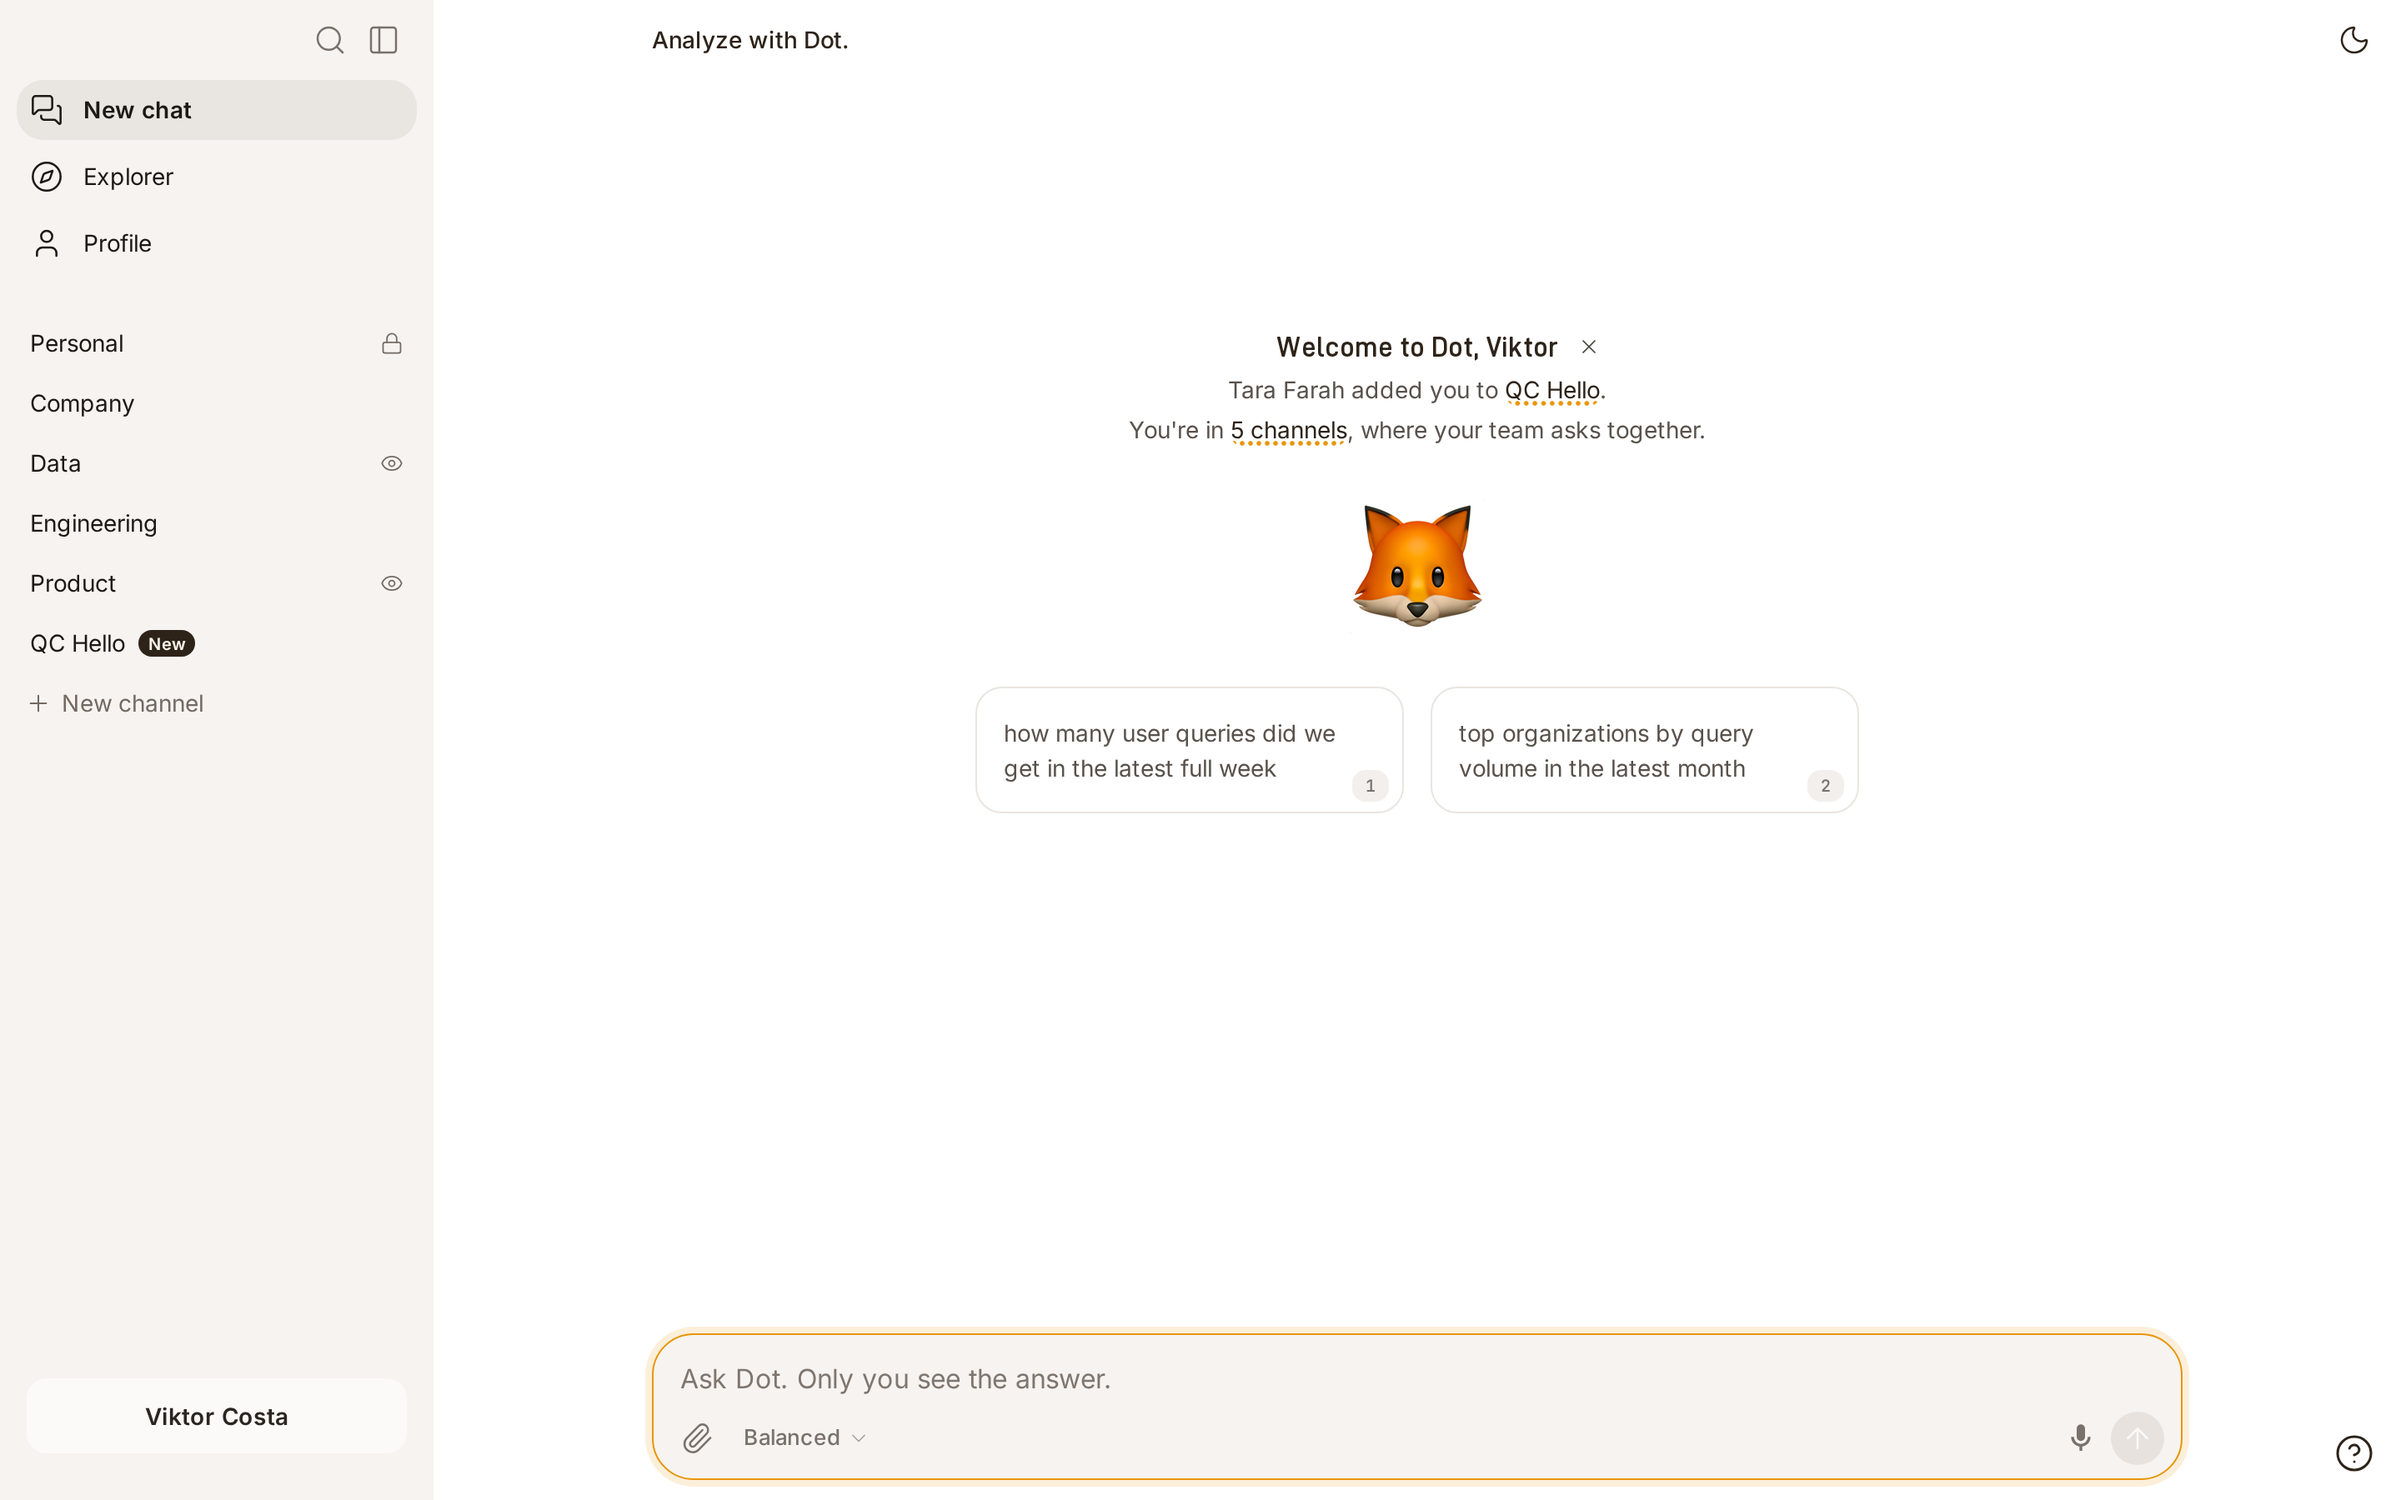
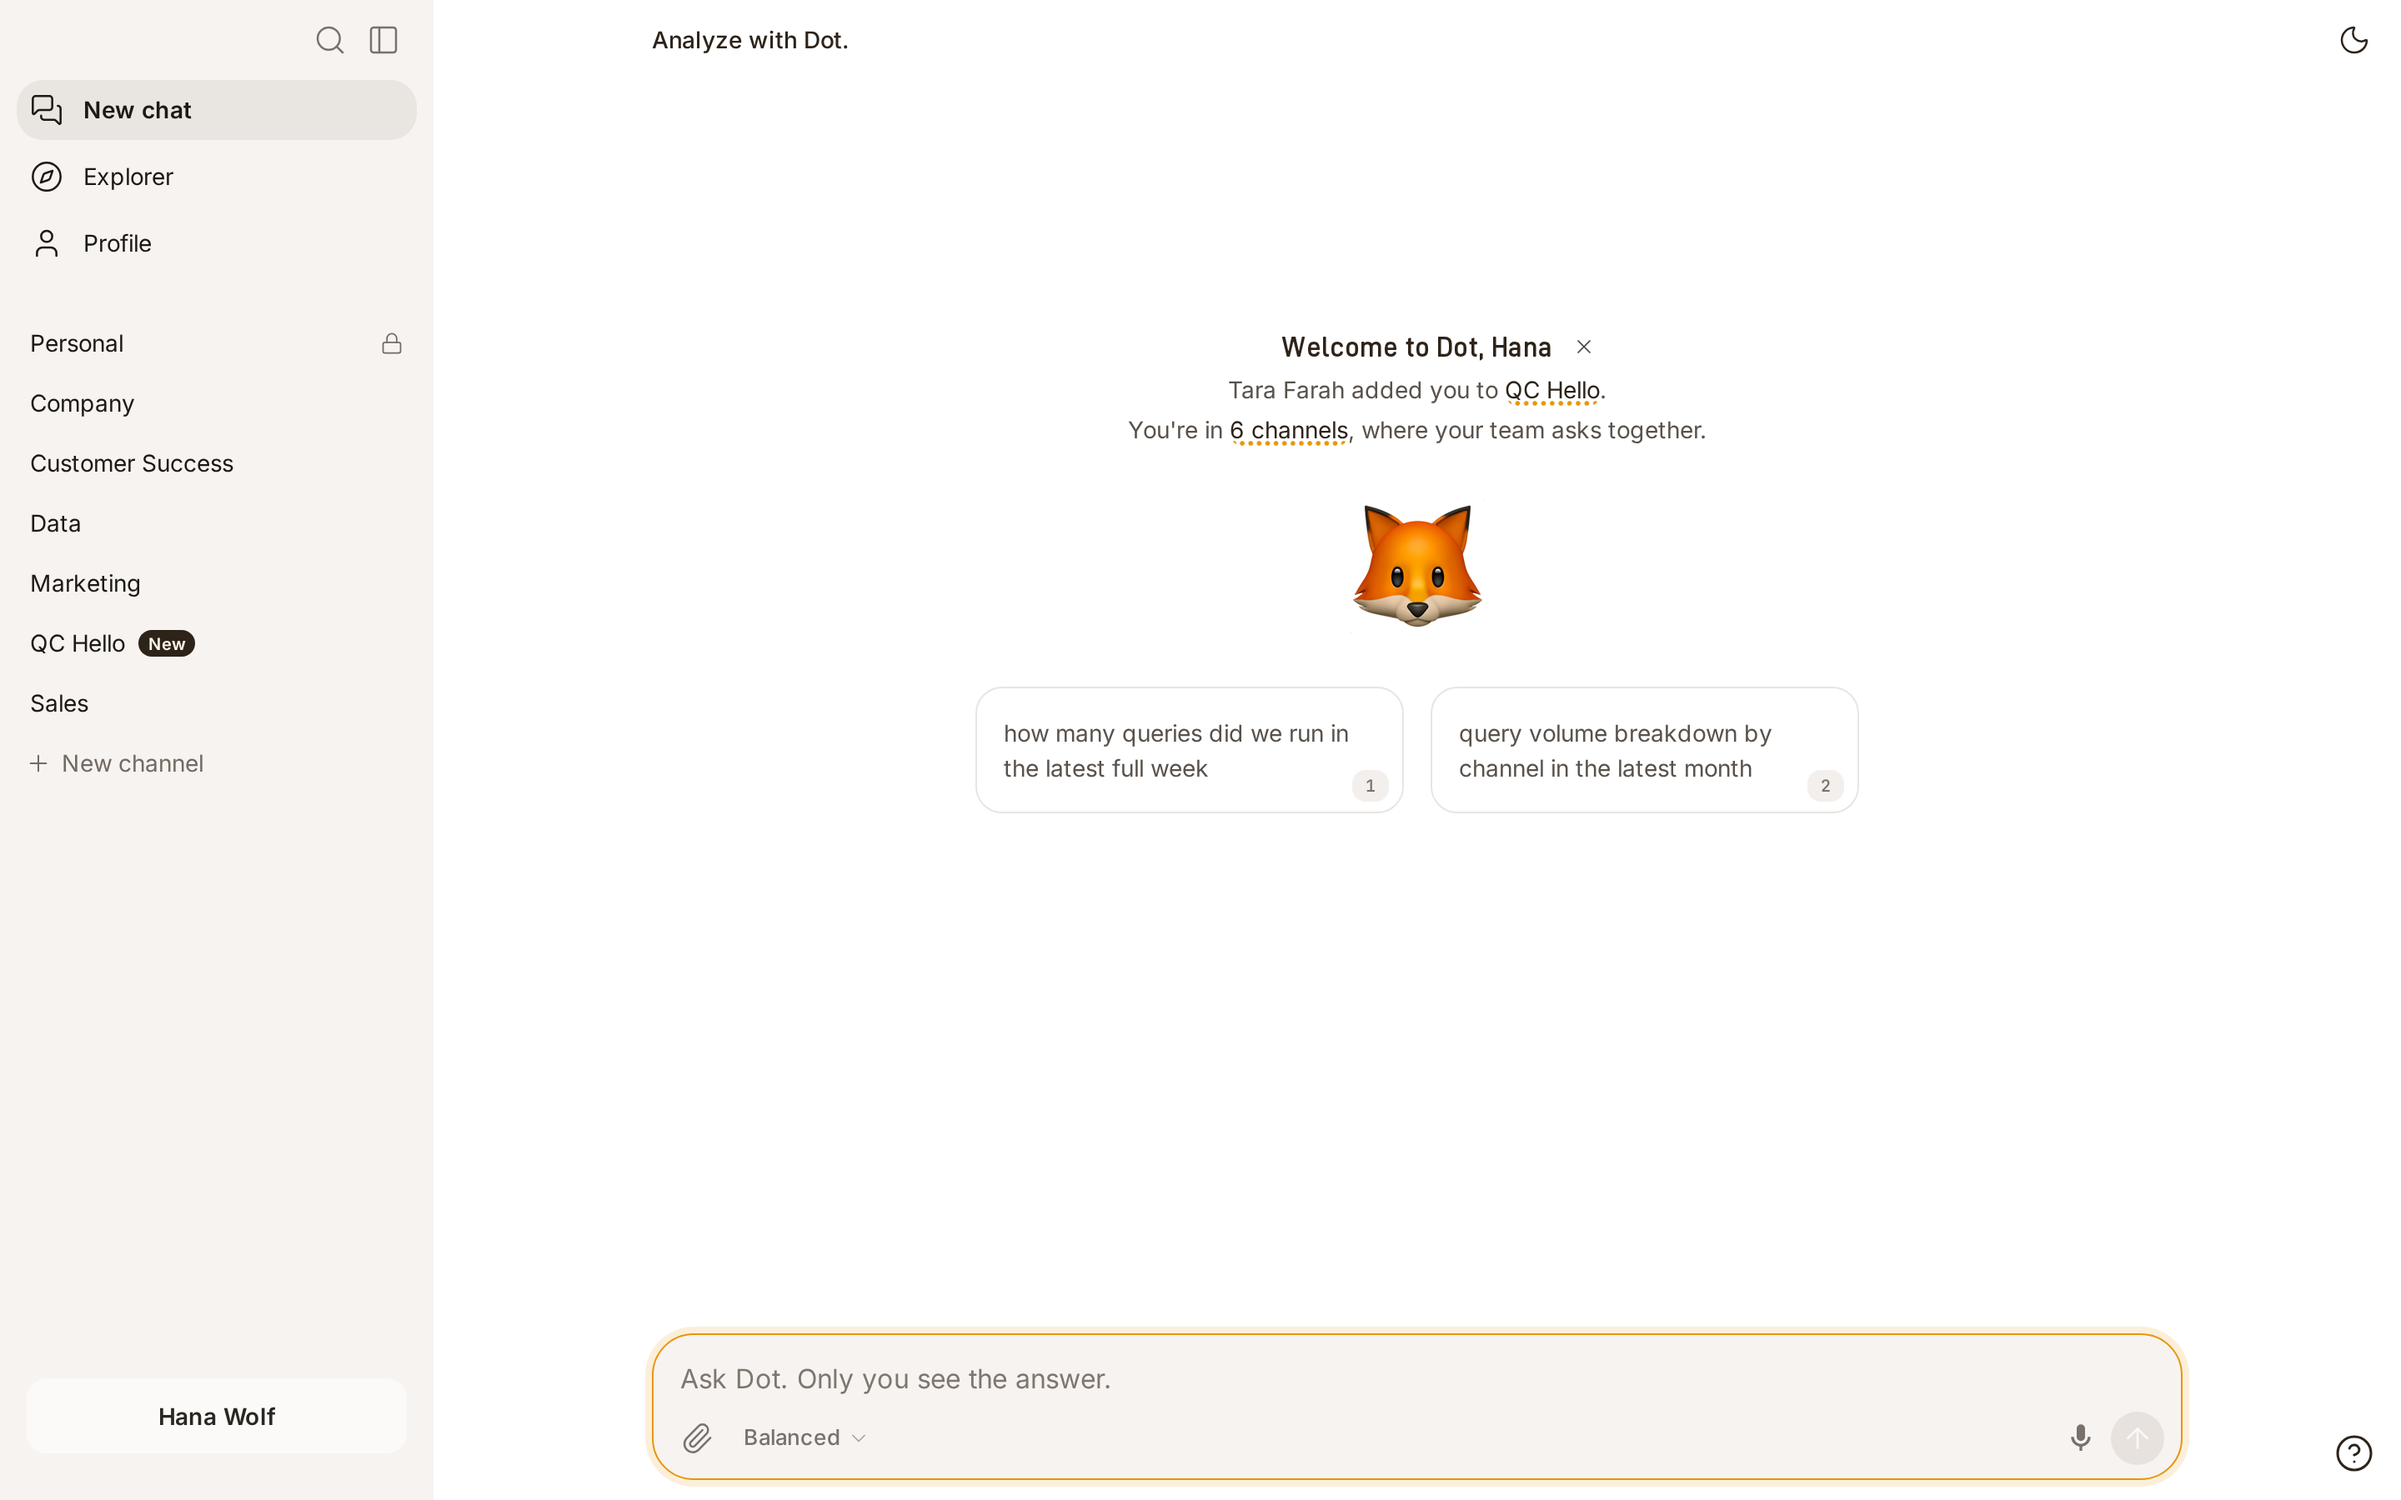
docs: say read-only where the box is, not in the sidebar
The app no longer marks a read-only channel in the sidebar, and the
people list names you inside your group's row instead of a sentence.

diff --git a/dot/dot/whats-dot/teams.md b/dot/dot/whats-dot/teams.md
@@ -58,9 +58,9 @@ Each channel names the groups and people who can open it, and what they can do t
 
 Admins open every channel.
 
-To see who is in a channel, click the faces at the top of it. The number beside them says how many people can open it. If you are in it through a group, the list says which one.
+To see who is in a channel, click the faces at the top of it. The number beside them says how many people can open it. If you are in it through a group, that group's row names you among its people.
 
-A channel you can only read shows an eye beside its name in the sidebar. In it, the place of the box says who can let you ask. A thread says the same, and offers **Continue in a private chat**.
+In a channel you can only read, the place of the box says so and who can let you ask. A thread says the same, and offers **Continue in a private chat**.
 
 ## When someone adds you
 
